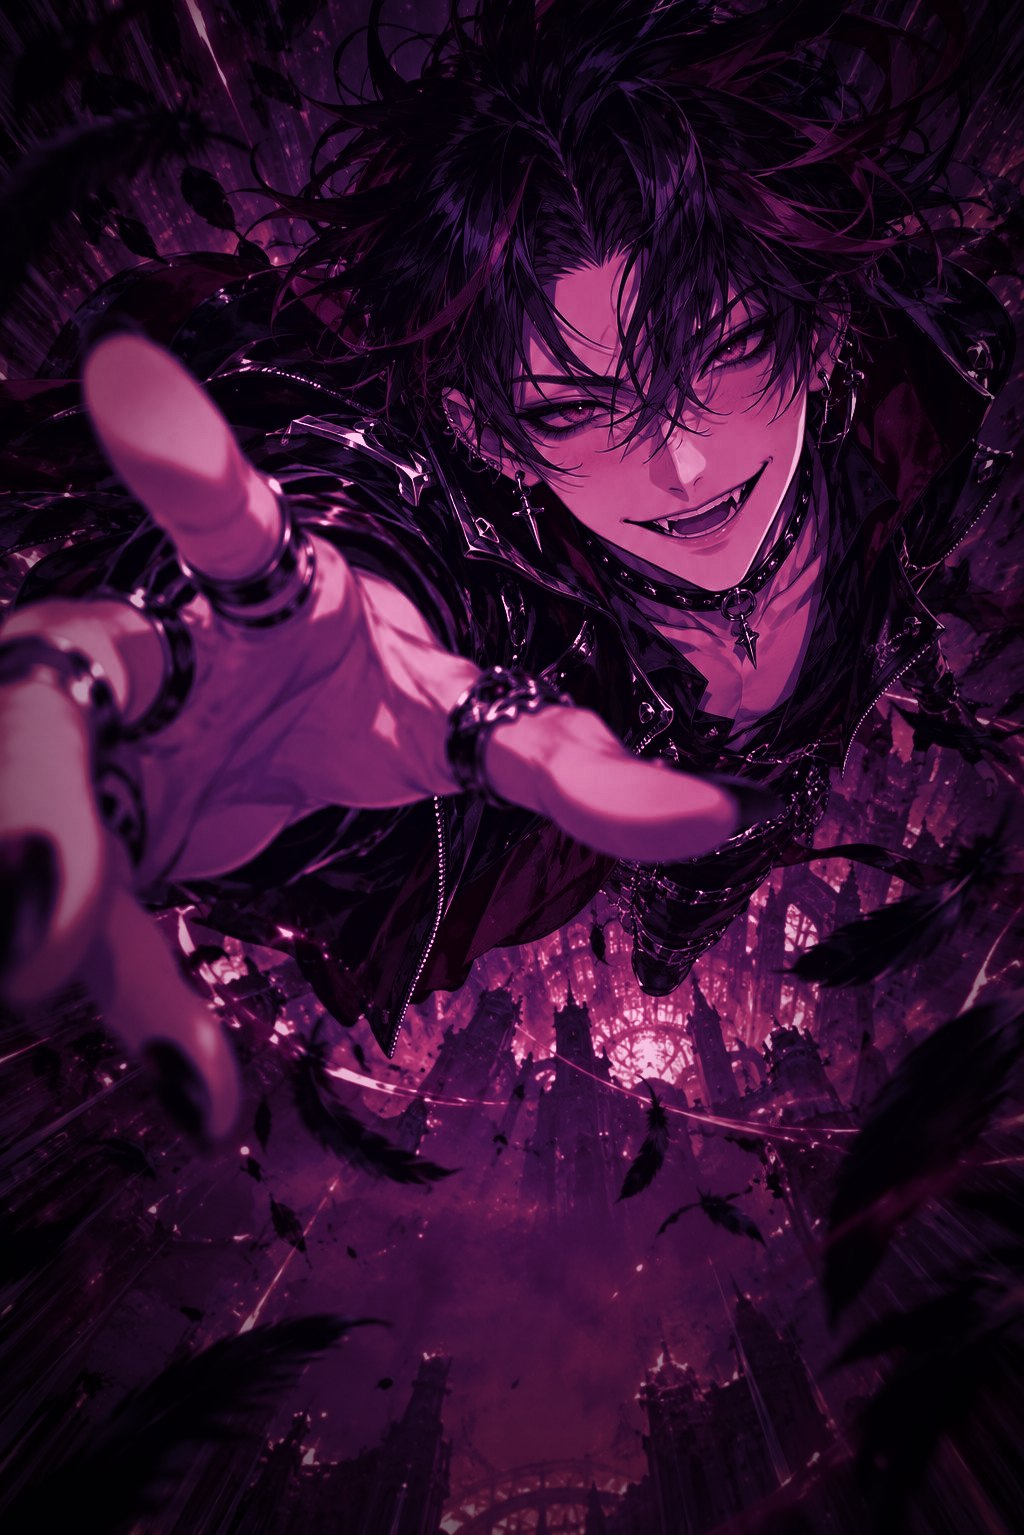
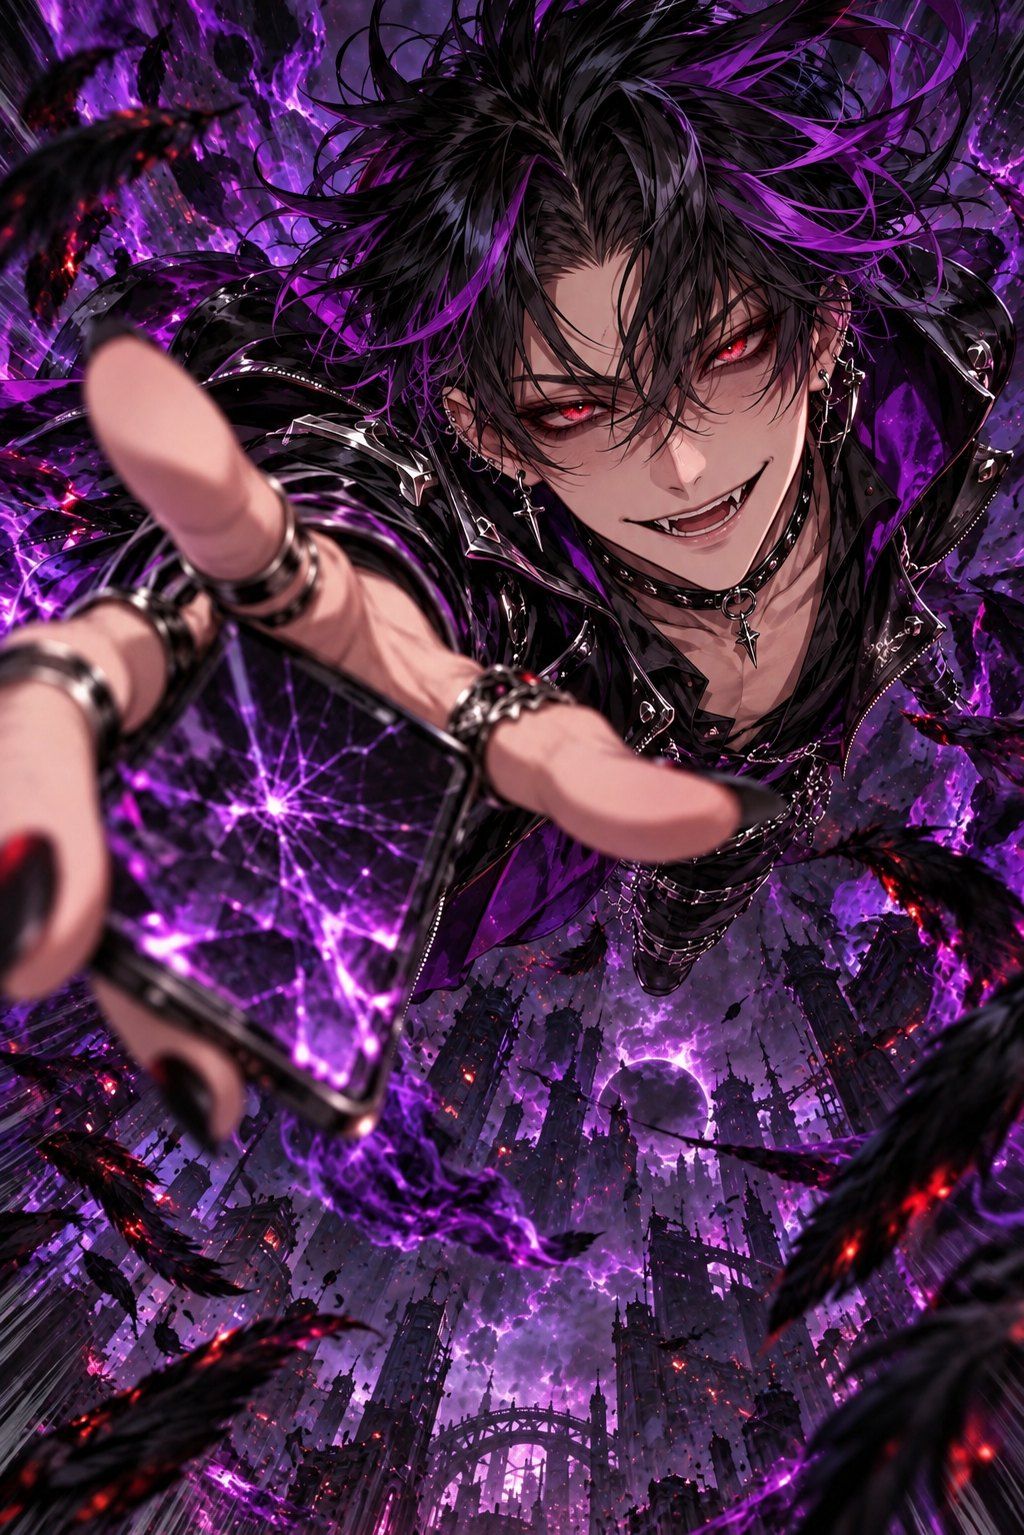
第3弾25枚と闇堕ち5枚のイラストを取り込む
- ChatGPT で描いた絵を cN-art.jpg / cN-dark-art.jpg / cN-dark-subject.webp に
- 元の画像を assets/original/ に置き、cards.json の art・original を設定
- 闇堕ちの original を型に追加
- k11・c8 の注文の変更を docs に反映

Claude-Session: https://claude.ai/code/session_012vWqMZ5ZuBBaPVPTV4MzZp

diff --git a/packages/cards/src/types.ts b/packages/cards/src/types.ts
@@ -87,6 +87,8 @@ export interface DarkSide {
   /** 闇堕ちの姿の絵（web の public からのパス）。無ければ元の絵 */
   art?: string;
   subject?: string;
+  /** 印刷用の元画像（リポジトリ直下からのパス） */
+  original?: string;
 }
 
 /** カード1枚の定義。ゲームのルールと表示の両方がここを参照する */

diff --git a/docs/card-art-orders.md b/docs/card-art-orders.md
@@ -851,7 +851,7 @@
 
 ## 闇堕ちの姿（★5 の5枚）
 
-闇堕ちしたアイコンの絵。今は元の絵を紫に塗り直した仮の絵（`cN-dark-art.jpg`・`cN-dark-subject.webp`）を出している。
+闇堕ちしたアイコンの絵（`cN-dark-art.jpg`・`cN-dark-subject.webp`）。10月18日に下の注文で ChatGPT に描いてもらった絵に差し替え済み（元の画像は `assets/original/cN-dark.webp`）。
 
 **デザインは変えない**。カードの枠・レイアウトはそのままで、絵だけを差し替える。絵も、元の絵と同じキャラクター・同じ構図・同じ画角で描き、闇堕ちらしさは色・光・表情・小物で出す。
 
@@ -907,6 +907,8 @@
 ```
 
 ## 第3弾（10月18日追加の25枚）
+
+10月18日に ChatGPT で全25枚を描いて取り込み済み。k11 は最初の注文（妖精）が断られたので男の子に、c8 も人間の少年に変えた（下の注文は変更後）。
 
 どれも [card-art-prompt.md](card-art-prompt.md) の指示を入れたプロジェクトに、1枚ずつ送る。できた画像は `{ID}.png` で保存して Claude に渡す（`{ID}-art.jpg` に変換して入れる）。
 
@@ -1123,7 +1125,7 @@
 界隈：ミーム
 ★：1
 設定：コメント欄で「www」を連打する住人
-見た目：ちびキャラの緑の妖精。手足が短く、口を大きく開けて笑い転げている。頭に双葉
+見た目：オリジナルの男の子。黄緑のパーカーを着て、スマホを両手で持ち、口を大きく開けて笑い転げている
 構図：全身、ころがるポーズ
 背景：黄緑のなめらかなグラデーションだけ。ぼけた光の玉を2つ
 ```
@@ -1178,7 +1180,7 @@
 界隈：ミーム
 ★：5
 設定：笑った者をみな仲間にする、大草原の主
-見た目：小柄な少年の姿の精霊。もじゃもじゃの黄緑の髪から草と花が生え、大きく口を開けて笑う。葉っぱのマント
+見た目：小柄な人間の少年。もじゃもじゃの黄緑の髪に草と花の飾り、大きく口を開けて笑う。葉っぱのマント
 構図：見渡すかぎりの大草原の上に浮かび、両手を広げてこちらへ迫る、画面から飛び出す構図
 背景：草原と青空、笑う双葉の妖精がたくさん（顔は小さく）。最大の描き込み
 ```

diff --git a/docs/history.md b/docs/history.md
@@ -43,9 +43,13 @@
 - 全属性に★1〜★5 を5枚ずつ、計25枚追加（第3弾）。イラストはまだ無く、注文を `docs/card-art-orders.md` に追加
 - 先読み CPU のシミュレーションでコストとデモ用デッキを調整し、デッキの勝率を 42〜57% に（調整前 17〜76%）
 
+## 10月18日：第3弾と闇堕ちのイラスト
+
+- ChatGPT（Claude in Chrome で操作）で第3弾25枚と闇堕ち5枚の絵を描き、取り込む。元の画像は `assets/original/`
+- k11 www連打勢は妖精の注文が断られたので、黄緑パーカーの男の子に。c8 ワラも人間の少年に
+
 ## これから
 
 - 効果音、演出の調整
-- 第3弾と闇堕ちのイラスト（ChatGPT に注文して差し替え）
 - 属性の相性の並びの見直し（草と癒しが狙いと逆）
 - CPU の強さを選べるようにするか（「ふつう」＝これまでの CPU）
